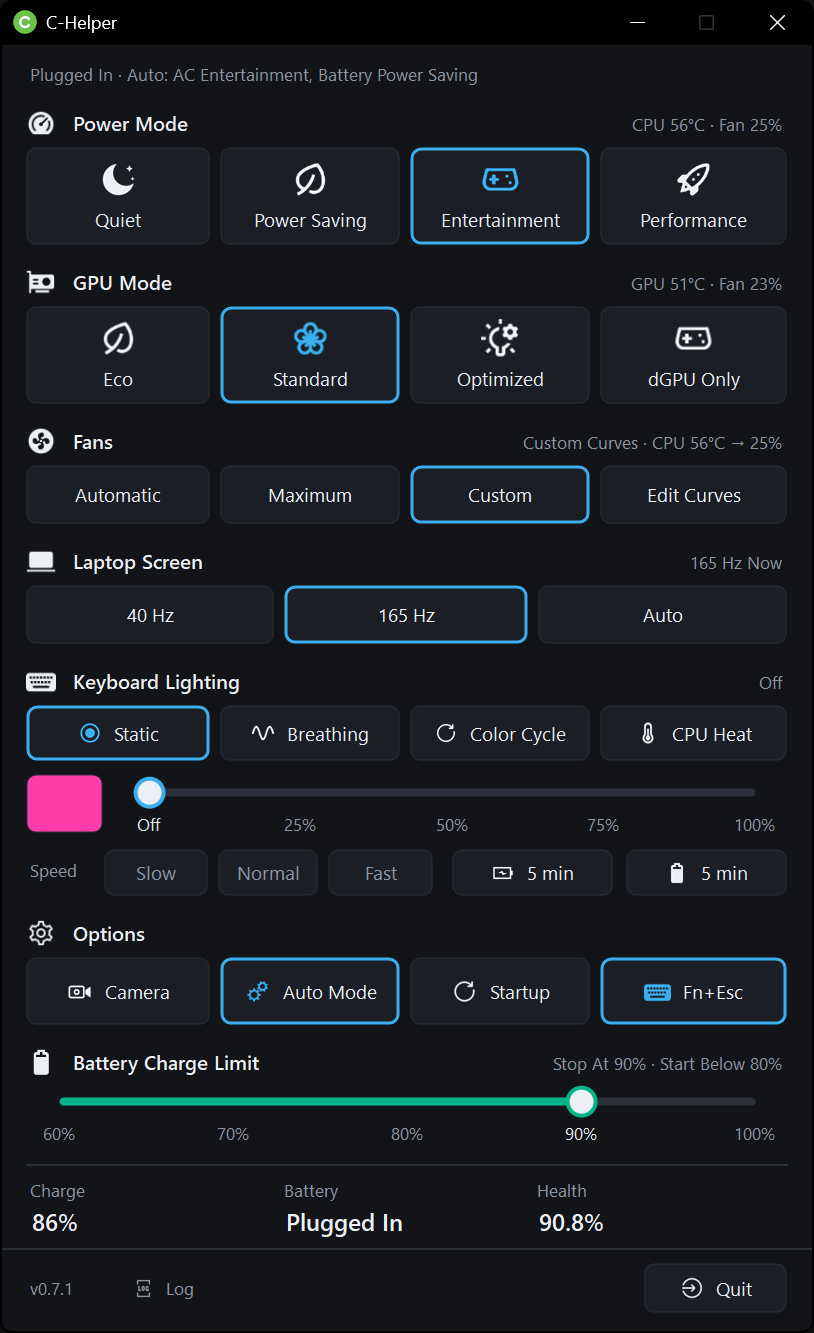
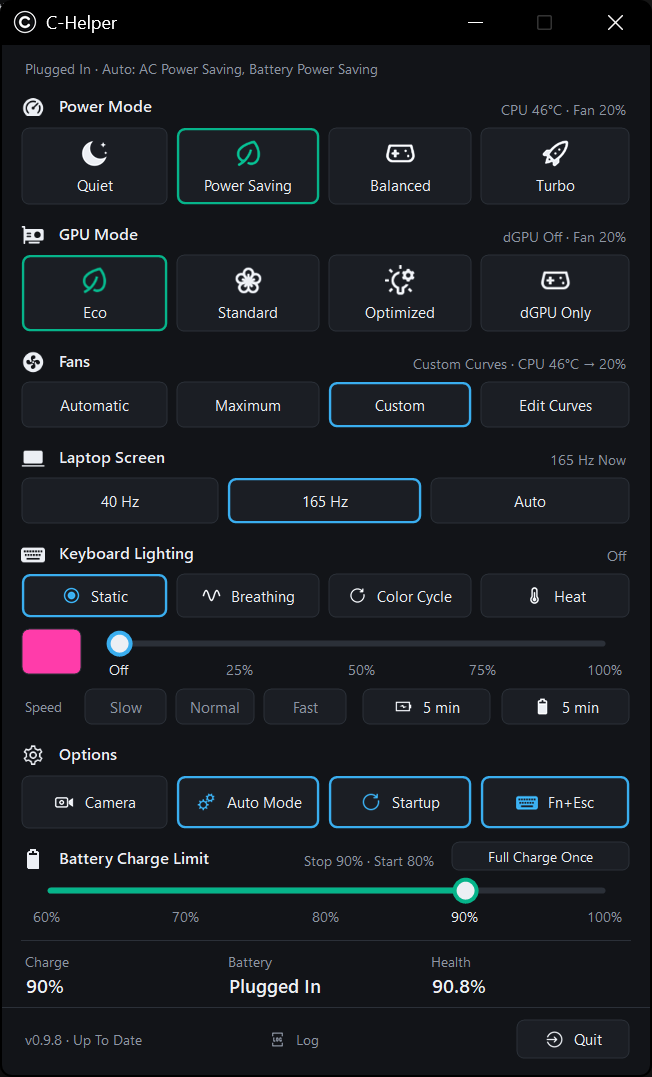
Add the C-Helper website
A one-page site in the same black and white style as the app: why
C-Helper exists, what's different from the stock Control Center
(including the refresh rate dropping to 40 Hz on every switch to Power
Saving), features, install steps and a way to support the developer
over UPI. It's published to GitHub Pages whenever the site changes.
The README links to it and shows an up-to-date screenshot.

diff --git a/site/index.html b/site/index.html
@@ -1,0 +1,252 @@
+<!DOCTYPE html>
+<html lang="en">
+<head>
+<meta charset="utf-8">
+<meta name="viewport" content="width=device-width, initial-scale=1">
+<title>C-Helper · Control Center Replacement for the Colorful EVOL P15</title>
+<meta name="description" content="A small, fast replacement for the vendor Control Center on the Colorful EVOL P15 23: power modes, GPU modes, fan curves, keyboard lighting, battery charge limit and Fn keys in one tray app.">
+<link rel="icon" href="icon.svg" type="image/svg+xml">
+<style>
+  :root {
+    --bg: #0E0F11; --panel: #15171B; --card: #1B1E24; --line: #2B3038;
+    --text: #ECEFF4; --muted: #8D95A3; --dim: #5F6673; --white: #FFFFFF;
+  }
+  * { box-sizing: border-box; }
+  html { scroll-behavior: smooth; }
+  body {
+    margin: 0; background: var(--bg); color: var(--text);
+    font: 16px/1.6 "Segoe UI Variable", "Segoe UI", Inter, system-ui, -apple-system, sans-serif;
+    -webkit-font-smoothing: antialiased;
+  }
+  a { color: inherit; }
+  .wrap { max-width: 1080px; margin: 0 auto; padding: 0 24px; }
+
+  /* nav */
+  nav { position: sticky; top: 0; z-index: 10; background: rgba(14,15,17,.85); backdrop-filter: blur(10px); border-bottom: 1px solid var(--line); }
+  nav .wrap { display: flex; align-items: center; gap: 28px; height: 60px; }
+  .brand { display: flex; align-items: center; gap: 10px; font-weight: 600; text-decoration: none; }
+  .brand img { width: 26px; height: 26px; }
+  nav .links { display: flex; gap: 22px; margin-left: auto; font-size: 14px; }
+  nav .links a { color: var(--muted); text-decoration: none; }
+  nav .links a:hover { color: var(--text); }
+
+  /* buttons */
+  .btn { display: inline-flex; align-items: center; gap: 8px; padding: 12px 20px; border-radius: 10px; font-weight: 600; font-size: 15px; text-decoration: none; border: 1px solid var(--line); cursor: pointer; background: var(--card); color: var(--text); }
+  .btn:hover { border-color: #4A505B; }
+  .btn.primary { background: var(--white); color: #0E0F11; border-color: var(--white); }
+  .btn.primary:hover { background: #E3E5E9; }
+  .btn svg { width: 18px; height: 18px; }
+
+  /* hero */
+  .hero { padding: 88px 0 72px; display: grid; grid-template-columns: 1.15fr .85fr; gap: 56px; align-items: center; }
+  .hero .icon { width: 72px; height: 72px; margin-bottom: 22px; }
+  .eyebrow { color: var(--muted); font-size: 13px; letter-spacing: .08em; text-transform: uppercase; }
+  h1 { font-size: 52px; line-height: 1.08; margin: 10px 0 18px; letter-spacing: -.02em; }
+  .lead { color: var(--muted); font-size: 18px; max-width: 520px; margin: 0 0 30px; }
+  .cta { display: flex; gap: 12px; flex-wrap: wrap; }
+  .meta { color: var(--dim); font-size: 13px; margin-top: 16px; }
+  .shot { justify-self: center; position: relative; }
+  .shot img { width: 360px; max-width: 100%; border-radius: 14px; border: 1px solid var(--line); box-shadow: 0 30px 80px rgba(0,0,0,.55); display: block; }
+
+  section { padding: 72px 0; border-top: 1px solid var(--line); }
+  h2 { font-size: 32px; margin: 0 0 10px; letter-spacing: -.01em; }
+  .sub { color: var(--muted); margin: 0 0 36px; max-width: 640px; }
+
+  /* why */
+  .why { display: grid; grid-template-columns: 1fr 1fr; gap: 48px; }
+  .why p { color: #C9CED6; margin: 0 0 16px; }
+  .quote { background: var(--card); border: 1px solid var(--line); border-radius: 14px; padding: 26px 28px; }
+  .quote li { margin: 0 0 12px; color: #C9CED6; }
+  .quote ul { margin: 0; padding-left: 18px; }
+
+  /* comparison */
+  table { width: 100%; border-collapse: collapse; background: var(--panel); border: 1px solid var(--line); border-radius: 14px; overflow: hidden; }
+  th, td { text-align: left; padding: 16px 20px; border-bottom: 1px solid var(--line); vertical-align: top; font-size: 15px; }
+  th { font-size: 13px; color: var(--muted); font-weight: 600; text-transform: uppercase; letter-spacing: .06em; background: var(--card); }
+  td:first-child { color: var(--muted); width: 24%; }
+  td:nth-child(2) { color: #A9AFBA; width: 36%; }
+  td:last-child { color: var(--text); }
+  tr:last-child td { border-bottom: 0; }
+  .yes::before { content: "✓ "; color: var(--white); font-weight: 700; }
+
+  /* features */
+  .grid { display: grid; grid-template-columns: repeat(3, 1fr); gap: 16px; }
+  .card { background: var(--card); border: 1px solid var(--line); border-radius: 14px; padding: 22px; }
+  .card h3 { margin: 12px 0 6px; font-size: 17px; }
+  .card p { margin: 0; color: var(--muted); font-size: 14.5px; }
+  .card .ico { width: 34px; height: 34px; border-radius: 9px; background: #262A31; display: grid; place-items: center; }
+  .card .ico svg { width: 18px; height: 18px; stroke: var(--white); fill: none; stroke-width: 1.8; stroke-linecap: round; stroke-linejoin: round; }
+
+  /* install */
+  .steps { counter-reset: s; display: grid; grid-template-columns: repeat(3, 1fr); gap: 16px; }
+  .steps .card::before { counter-increment: s; content: counter(s); display: inline-grid; place-items: center; width: 28px; height: 28px; border-radius: 50%; background: var(--white); color: #0E0F11; font-weight: 700; font-size: 14px; }
+
+  /* support */
+  .support { background: var(--panel); }
+  .support .box { display: grid; grid-template-columns: 1fr auto; gap: 32px; align-items: center; background: var(--card); border: 1px solid var(--line); border-radius: 16px; padding: 32px; }
+  .upi { display: flex; align-items: center; gap: 10px; margin-top: 18px; flex-wrap: wrap; }
+  .upi code { font: 600 16px/1 ui-monospace, "Cascadia Mono", Consolas, monospace; background: #0E0F11; border: 1px solid var(--line); padding: 12px 14px; border-radius: 10px; }
+  .copied { color: var(--muted); font-size: 13px; min-width: 60px; }
+
+  footer { padding: 28px 0 40px; color: var(--dim); font-size: 13px; }
+  footer .wrap { display: flex; gap: 16px; flex-wrap: wrap; justify-content: space-between; }
+
+  @media (max-width: 860px) {
+    .hero, .why, .support .box { grid-template-columns: 1fr; }
+    .grid, .steps { grid-template-columns: 1fr; }
+    h1 { font-size: 40px; }
+    nav .links { display: none; }
+    td:first-child, td:nth-child(2) { width: auto; }
+  }
+</style>
+</head>
+<body>
+
+<nav>
+  <div class="wrap">
+    <a class="brand" href="#"><img src="icon.svg" alt="">C-Helper</a>
+    <div class="links">
+      <a href="#why">Why</a>
+      <a href="#compare">Vs Stock</a>
+      <a href="#features">Features</a>
+      <a href="#install">Install</a>
+      <a href="#support">Support</a>
+    </div>
+    <a class="btn" style="padding:8px 14px;font-size:14px" href="https://github.com/th4rv4/CHelper">GitHub</a>
+  </div>
+</nav>
+
+<header class="wrap hero">
+  <div>
+    <img class="icon" src="icon.svg" alt="C-Helper icon">
+    <div class="eyebrow">For the Colorful EVOL P15 23</div>
+    <h1>The Control Center,<br>without the clutter.</h1>
+    <p class="lead">C-Helper replaces the vendor Control Center with one small tray app: power modes, GPU modes, fan curves, keyboard lighting, battery charge limit and Fn keys. No background services, no Store apps.</p>
+    <div class="cta">
+      <a class="btn primary" href="https://github.com/th4rv4/CHelper/releases/latest">
+        <svg viewBox="0 0 24 24" fill="none" stroke="currentColor" stroke-width="2" stroke-linecap="round" stroke-linejoin="round"><path d="M12 3v12m0 0-5-5m5 5 5-5M4 21h16"/></svg>
+        Download
+      </a>
+      <a class="btn" href="https://github.com/th4rv4/CHelper">View Source</a>
+    </div>
+    <div class="meta" id="version">Windows 10 / 11 · Free and open source (GPL-3.0)</div>
+  </div>
+  <div class="shot"><img src="screenshot.png" alt="C-Helper main window"></div>
+</header>
+
+<section id="why">
+  <div class="wrap why">
+    <div>
+      <h2>Why I Made It</h2>
+      <p>The EVOL P15 is a great laptop, but its Control Center isn't one app. It's nine separate Store apps, two background services, a launcher that runs at every sign-in and a keyboard filter driver, just to switch a power mode or change the keyboard colour.</p>
+      <p>And it got in the way. Every time I switched to Power Saving, the screen dropped back to 40 Hz, and I had to set 165 Hz again by hand. Every single time.</p>
+      <p>I wanted what <a href="https://github.com/seerge/g-helper">G-Helper</a> gives ASUS owners: one small window that does the job and stays out of the way. So I worked out how the laptop talks to its firmware and built C-Helper around that.</p>
+    </div>
+    <div class="quote">
+      <ul>
+        <li>One app instead of a bundle of Store apps and services.</li>
+        <li>The refresh rate stays where you put it when you change power mode.</li>
+        <li>Fn keys, popups and fan control keep working with the vendor software uninstalled.</li>
+        <li>Things the stock app never had: fan curves per power mode, keyboard effects, battery health and watts.</li>
+        <li>Updates itself from GitHub in one click.</li>
+      </ul>
+    </div>
+  </div>
+</section>
+
+<section id="compare">
+  <div class="wrap">
+    <h2>C-Helper vs Stock Control Center</h2>
+    <p class="sub">Same BIOS power modes and GPU modes underneath. The difference is everything around them.</p>
+    <table>
+      <tr><th></th><th>Stock Control Center</th><th>C-Helper</th></tr>
+      <tr><td>What gets installed</td><td>9 Store apps, 2 background services, a sign-in launcher and a keyboard filter driver</td><td class="yes">One app and a ~7.5 MB installer</td></tr>
+      <tr><td>Running in the background</td><td>Services and helpers start with Windows</td><td class="yes">One tray app; memory trimmed when the window is closed</td></tr>
+      <tr><td>Power &amp; GPU modes</td><td>Eco GPU tied to Power Saving</td><td class="yes">Independent: any power mode with any GPU mode</td></tr>
+      <tr><td>Fans</td><td>BIOS behaviour per mode</td><td class="yes">BIOS behaviour, Maximum, or your own CPU and GPU curves for each power mode</td></tr>
+      <tr><td>Keyboard lighting</td><td>Colour and brightness</td><td class="yes">Static, Breathing, Color Cycle and Heat (follows CPU or GPU temperature), plus a backlight timer for charger and battery</td></tr>
+      <tr><td>Battery</td><td>Charge limit</td><td class="yes">Charge limit, Full Charge Once for trips, live watts and battery health</td></tr>
+      <tr><td>Plugging in / unplugging</td><td>Manual</td><td class="yes">Auto Mode switches power mode, GPU mode and refresh rate for you</td></tr>
+      <tr><td>Screen refresh rate</td><td>Drops to 40 Hz every time you switch to Power Saving</td><td class="yes">Stays where you set it: 40 Hz, 165 Hz, or Auto (165 Hz on charger, 40 Hz on battery)</td></tr>
+      <tr><td>Windows power mode</td><td>Separate setting</td><td class="yes">Set to match each power mode</td></tr>
+      <tr><td>Updates</td><td>Through the Store, app by app</td><td class="yes">Checks GitHub daily; one click installs and verifies the update</td></tr>
+    </table>
+  </div>
+</section>
+
+<section id="features">
+  <div class="wrap">
+    <h2>Features</h2>
+    <p class="sub">Everything the stock app does day to day, plus the things I missed.</p>
+    <div class="grid">
+      <div class="card"><div class="ico"><svg viewBox="0 0 24 24"><path d="M12 3v3M12 18v3M3 12h3M18 12h3M5.6 5.6l2.1 2.1M16.3 16.3l2.1 2.1M5.6 18.4l2.1-2.1M16.3 7.7l2.1-2.1"/><circle cx="12" cy="12" r="3.5"/></svg></div><h3>Power Modes</h3><p>Quiet, Power Saving, Balanced and Turbo, the same BIOS profiles as stock, with an on-screen popup.</p></div>
+      <div class="card"><div class="ico"><svg viewBox="0 0 24 24"><rect x="3" y="6" width="18" height="12" rx="2"/><path d="M7 10h4v4H7zM15 10h2M15 14h2"/></svg></div><h3>GPU Modes</h3><p>Eco, Standard, Optimized and dGPU Only. Optimized turns the RTX 4060 off on battery and on when plugged in.</p></div>
+      <div class="card"><div class="ico"><svg viewBox="0 0 24 24"><circle cx="12" cy="12" r="2"/><path d="M12 10c0-4 1-7 4-7 2 0 3 2 2 4-1 1.5-3 2.5-6 3M14 12c4 0 7 1 7 4 0 2-2 3-4 2-1.5-1-2.5-3-3-6M12 14c0 4-1 7-4 7-2 0-3-2-2-4 1-1.5 3-2.5 6-3M10 12c-4 0-7-1-7-4 0-2 2-3 4-2 1.5 1 2.5 3 3 6"/></svg></div><h3>Fan Curves</h3><p>Your own CPU and GPU curves for each power mode, with presets and safety limits.</p></div>
+      <div class="card"><div class="ico"><svg viewBox="0 0 24 24"><rect x="2" y="6" width="20" height="12" rx="2"/><path d="M6 10h.01M10 10h.01M14 10h.01M18 10h.01M7 14h10"/></svg></div><h3>Keyboard Lighting</h3><p>Colour, brightness and effects, including Heat that turns warmer as the CPU or GPU heats up.</p></div>
+      <div class="card"><div class="ico"><svg viewBox="0 0 24 24"><rect x="2" y="7" width="18" height="10" rx="2"/><path d="M22 11v2M6 10v4M10 10v4"/></svg></div><h3>Battery</h3><p>Charge limit from 60 to 100 %, Full Charge Once, live charge and discharge watts, battery health.</p></div>
+      <div class="card"><div class="ico"><svg viewBox="0 0 24 24"><rect x="3" y="4" width="18" height="12" rx="2"/><path d="M8 20h8M12 16v4"/></svg></div><h3>Refresh Rate</h3><p>40 Hz, 165 Hz or Auto. Your choice survives power mode changes, sleep and plugging in.</p></div>
+      <div class="card"><div class="ico"><svg viewBox="0 0 24 24"><path d="M13 2 4 14h7l-1 8 9-12h-7z"/></svg></div><h3>Auto Mode</h3><p>One power mode for the charger and one for battery. C-Helper switches the moment you plug in or unplug.</p></div>
+      <div class="card"><div class="ico"><svg viewBox="0 0 24 24"><path d="M4 7h16M4 12h10M4 17h7"/><path d="M17 15l2 2 3-4"/></svg></div><h3>Fn Keys &amp; Popups</h3><p>Fn keys, Caps / Num Lock, camera and touchpad popups, read straight from the BIOS.</p></div>
+      <div class="card"><div class="ico"><svg viewBox="0 0 24 24"><path d="M21 12a9 9 0 1 1-3-6.7L21 8"/><path d="M21 3v5h-5"/></svg></div><h3>In-App Updates</h3><p>Checks GitHub once a day. One click downloads the new version, checks it and installs it.</p></div>
+    </div>
+  </div>
+</section>
+
+<section id="install">
+  <div class="wrap">
+    <h2>Install</h2>
+    <p class="sub">Takes a minute. Settings are kept when you update.</p>
+    <div class="steps">
+      <div class="card"><h3>Download</h3><p>Get <b>CHelper-Setup-x.y.z.exe</b> from the latest release on GitHub.</p></div>
+      <div class="card"><h3>Run The Installer</h3><p>It adds the .NET runtime and the firmware bridge driver if they're missing, and can start C-Helper at sign-in.</p></div>
+      <div class="card"><h3>Uninstall The Stock App</h3><p>Optional, but C-Helper is built to replace it. Fn keys keep working without it.</p></div>
+    </div>
+  </div>
+</section>
+
+<section id="support" class="support">
+  <div class="wrap">
+    <div class="box">
+      <div>
+        <h2>Support The Developer</h2>
+        <p class="sub" style="margin:0">C-Helper is free and always will be. If it made your laptop nicer to use, you can buy me a coffee over UPI.</p>
+        <div class="upi">
+          <code id="upi-id">atharvaagnihotri@upi</code>
+          <button class="btn" id="copy">Copy</button>
+          <a class="btn primary" id="pay" href="#">Pay With UPI</a>
+          <span class="copied" id="copied"></span>
+        </div>
+      </div>
+      <img src="icon.svg" alt="" style="width:96px;height:96px;opacity:.9">
+    </div>
+  </div>
+</section>
+
+<footer>
+  <div class="wrap">
+    <span>C-Helper by <a href="https://github.com/th4rv4">th4rv4</a> · GPL-3.0</span>
+    <span>Not affiliated with Colorful, Clevo or Insyde.</span>
+  </div>
+</footer>
+
+<script>
+  // Single place to set the UPI ID.
+  const UPI_ID = "atharvaagnihotri@upi";
+  const UPI_NAME = "Atharva Agnihotri";
+  document.getElementById("upi-id").textContent = UPI_ID;
+  document.getElementById("pay").href =
+    "upi://pay?pa=" + encodeURIComponent(UPI_ID) + "&pn=" + encodeURIComponent(UPI_NAME) + "&cu=INR&tn=" + encodeURIComponent("C-Helper");
+  document.getElementById("copy").addEventListener("click", async () => {
+    try { await navigator.clipboard.writeText(UPI_ID); document.getElementById("copied").textContent = "Copied"; }
+    catch { document.getElementById("copied").textContent = "Select and copy"; }
+  });
+
+  // Show the latest version next to the download button.
+  fetch("https://api.github.com/repos/th4rv4/CHelper/releases/latest")
+    .then(r => r.ok ? r.json() : null)
+    .then(j => { if (j && j.tag_name) document.getElementById("version").textContent =
+      "Latest " + j.tag_name + " · Windows 10 / 11 · Free and open source (GPL-3.0)"; })
+    .catch(() => {});
+</script>
+</body>
+</html>

diff --git a/README.md b/README.md
@@ -9,7 +9,7 @@ Small and lightweight alternative to the vendor **Control Center** for the **Col
 
 <p align="center"><img width="420" alt="C-Helper" src="docs/screenshot.png" /></p>
 
-**[⬇ Download the installer](https://github.com/th4rv4/CHelper/releases/latest)** (`CHelper-Setup-x.y.z.exe`), or the portable `CHelper.exe` from the same page.
+**[🌐 Website](https://th4rv4.github.io/CHelper/)** · **[⬇ Download the installer](https://github.com/th4rv4/CHelper/releases/latest)** (`CHelper-Setup-x.y.z.exe`), or the portable `CHelper.exe` from the same page.
 
 ## :gift: Advantages
 
